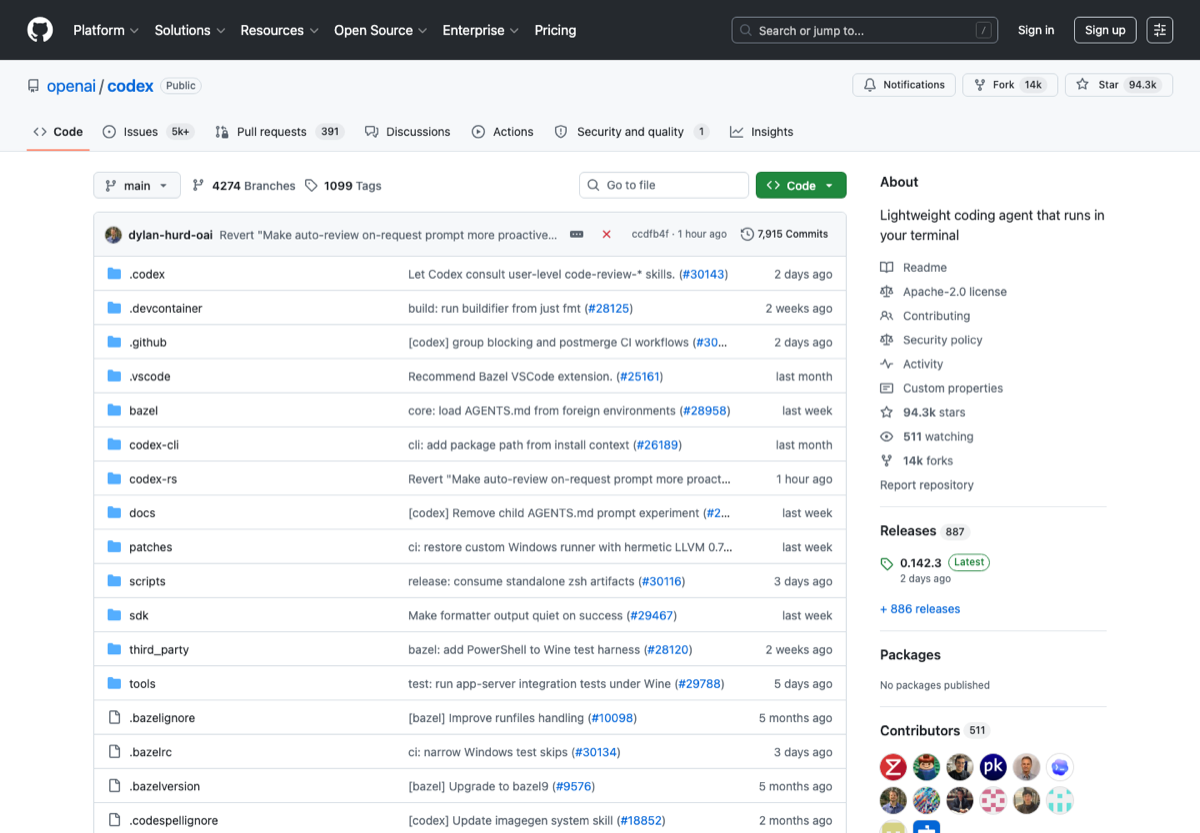
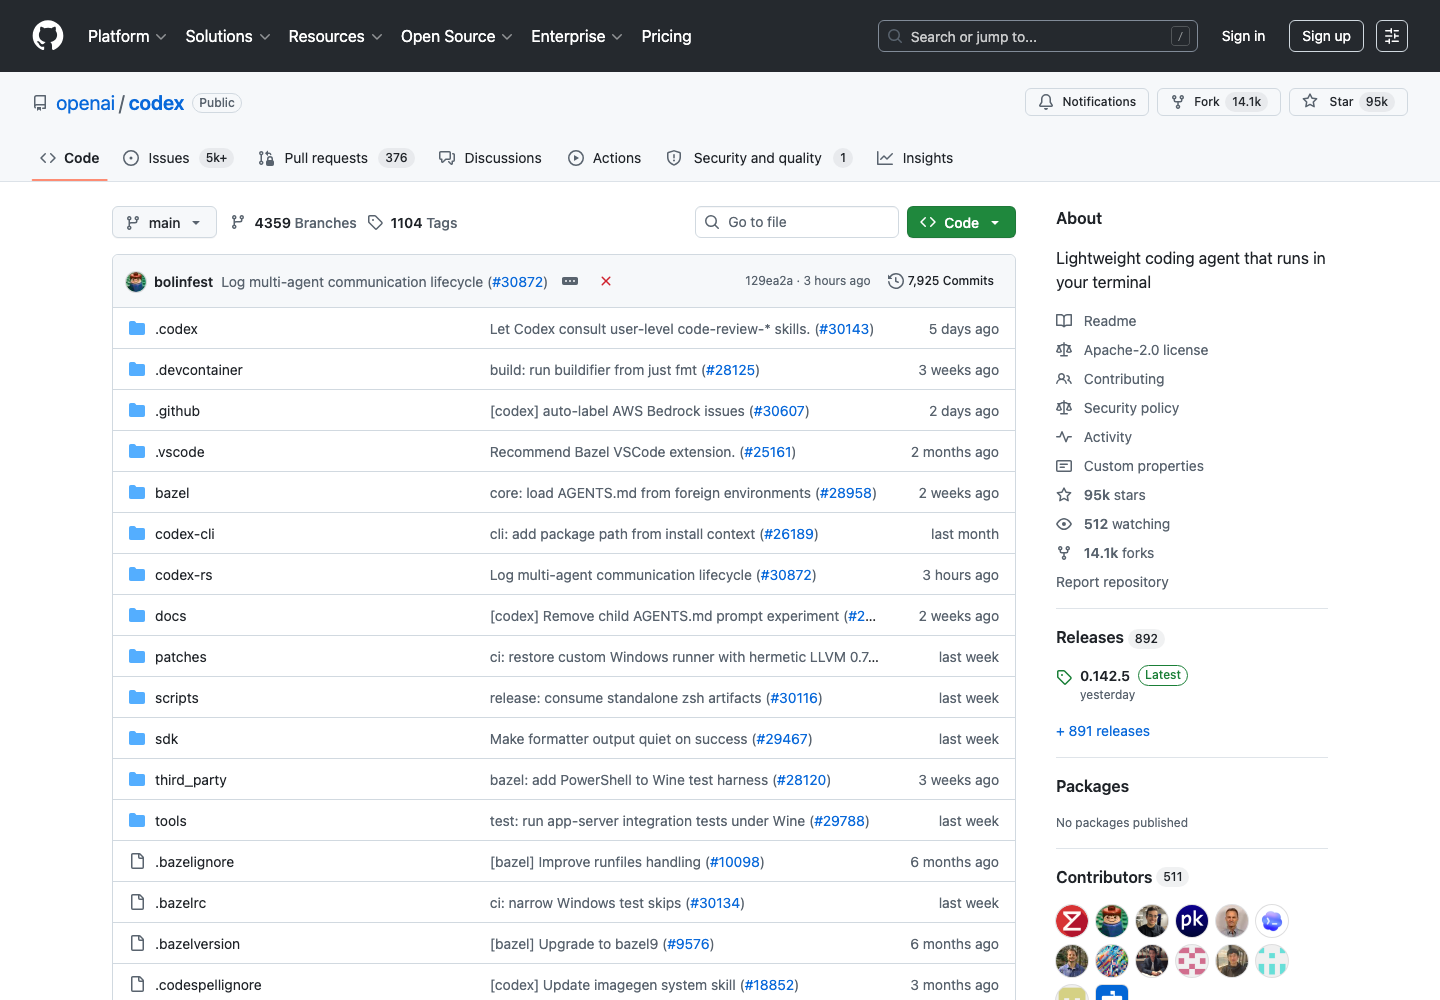
Polish README and curated resources

diff --git a/README.md b/README.md
@@ -1,55 +1,92 @@
-# 中文 AI 编程工具箱
+# AI 编程工具中文选型
 
-> Codex、Claude Code、Gemini CLI、Cursor、Cline、Aider 等 AI 编程工具的中文选型笔记。
+> 按工作流整理 Codex、Claude Code、Gemini CLI、Cursor、Cline、Aider、Continue 等 AI 编程工具，帮助中文用户快速比较工具定位、适用场景和风险点。
+
+<p align="left">
+  <a href="https://github.com/StaryMoon/cn-ai-coding-toolbox"><img alt="stars" src="https://img.shields.io/github/stars/StaryMoon/cn-ai-coding-toolbox?style=flat&label=stars"></a>
+  <img alt="category" src="https://img.shields.io/badge/AI%20%20%2F%20%20%E7%BC%96%E7%A8%8B-curated-blue">
+  <img alt="language" src="https://img.shields.io/badge/language-中文-brightgreen">
+</p>
 
 ![preview](assets/preview.png)
 
-## Overview
+<sub>图片来源：公开入口预览图，[https://github.com/openai/codex](https://github.com/openai/codex)，截取/整理日期：2026-07-02。</sub>
 
-按工作流整理 Codex、Claude Code、Gemini CLI、Cursor、Cline、Aider、Continue 等 AI 编程工具，帮助中文用户快速比较工具定位、适用场景和风险点。
+## 定位
 
-本仓库只保留与主题直接相关、入口稳定、说明清晰的资源。优先收录官方文档、主流开源仓库、长期可访问的产品页面和常用工具链。
+本仓库是一份面向中文用户的主题索引，重点整理常用、稳定、值得优先了解的工具入口，并补充适用场景、选型建议和风险边界。目标不是追求数量，而是降低第一次检索和筛选的成本。
 
-## Key Resources
+- **主题**：AI / 编程
+- **适合人群**：学生、研究生、开发者、开源维护者
+- **首批重点**：OpenAI Codex CLI / Claude Code / Gemini CLI / Cursor / Cline
+- **为什么值得整理**：AI coding 工具正在从补全走向 agent，中文资料常常只讲情绪不讲选型，这类页面很适合被搜索和收藏。
 
-OpenAI Codex CLI / Claude Code / Gemini CLI / Cursor
+## 使用方式
 
-## Resources
+1. 先看 [精选资源](#精选资源)，按自己的场景挑 2-3 个入口试用。
+2. 再看 [选型建议](#选型建议)，避免一上来把同类工具全装一遍。
+3. 如果用于课程、论文、开源项目或生产环境，务必看 [风险提醒](#风险提醒)。
 
-| Resource | Use case |
-| --- | --- |
-| [OpenAI Codex CLI](https://github.com/openai/codex) | 终端 coding agent，适合本地仓库修改、测试、PR 小修。 |
-| [Claude Code](https://docs.anthropic.com/en/docs/claude-code/overview) | Claude 生态 coding agent，适合长上下文和复杂任务拆解。 |
-| [Gemini CLI](https://github.com/google-gemini/gemini-cli) | Google Gemini 生态终端 agent，开源且热度高。 |
-| [Cursor](https://cursor.com/) | AI-first editor，适合需要完整 IDE 体验的用户。 |
-| [Cline](https://github.com/cline/cline) | VS Code 内开源 autonomous coding agent。 |
-| [Aider](https://github.com/Aider-AI/aider) | Git/diff 驱动的经典终端 AI pair programmer。 |
-| [Continue](https://github.com/continuedev/continue) | 开源 AI coding assistant 平台，适合团队自定义。 |
-| [Qwen Code](https://github.com/QwenLM/qwen-code) | Qwen 生态终端 coding agent，中文用户值得关注。 |
+## 收录口径
 
-## Recommended Path
+按实际编码位置分层：IDE、终端 agent、VS Code 插件、自托管补全。只收官方入口或活跃开源项目。
 
-1. 先选一种工作流：终端 agent、AI IDE、VS Code 插件。
-2. 小仓库试用：让工具读 README、修 bug、跑测试。
-3. 确认成本和权限后再交给它改大仓库。
+优先收录：
 
-## Notes
+- 官方文档、官网、活跃 GitHub 仓库；
+- 免费可试用或开源项目；
+- 中文用户高频搜索、收藏、复用的工具；
+- 入口稳定、说明清楚、维护状态可判断的资源。
+
+暂不收录：
+
+- 破解软件、灰色下载、账号代认证、返利推广；
+- 长期不可访问或入口频繁变化的镜像；
+- 只有营销话术、没有清晰文档的产品；
+- 与本主题关系很弱的泛泛工具。
+
+## 精选资源
+
+| 名称 | 适合场景 | 入口 |
+| --- | --- | --- |
+| OpenAI Codex CLI | 终端 coding agent，适合本地仓库修改、测试、PR 小修。 | [访问](https://github.com/openai/codex) |
+| Claude Code | Claude 生态 coding agent，适合长上下文和复杂任务拆解。 | [访问](https://docs.anthropic.com/en/docs/claude-code/overview) |
+| Gemini CLI | Google Gemini 生态终端 agent，开源且热度高。 | [访问](https://github.com/google-gemini/gemini-cli) |
+| Cursor | AI-first editor，适合需要完整 IDE 体验的用户。 | [访问](https://cursor.com/) |
+| Cline | VS Code 内开源 autonomous coding agent。 | [访问](https://github.com/cline/cline) |
+| Aider | Git/diff 驱动的经典终端 AI pair programmer。 | [访问](https://github.com/Aider-AI/aider) |
+| Continue | 开源 AI coding assistant 平台，适合团队自定义。 | [访问](https://github.com/continuedev/continue) |
+| Qwen Code | Qwen 生态终端 coding agent，中文用户值得关注。 | [访问](https://github.com/QwenLM/qwen-code) |
+| OpenHands | 开源软件开发 agent，适合观察端到端任务执行。 | [访问](https://github.com/All-Hands-AI/OpenHands) |
+| Tabby | 自托管代码补全和团队代码助手。 | [访问](https://github.com/TabbyML/tabby) |
+| Windsurf | AI IDE，适合对比 Cursor 类产品体验。 | [访问](https://windsurf.com/) |
+| Zed AI | 高速编辑器内置 AI 工作流。 | [访问](https://zed.dev/ai) |
+
+## 选型建议
+
+- 先选一种工作流：终端 agent、AI IDE、VS Code 插件。
+- 小仓库试用：让工具读 README、修 bug、跑测试。
+- 确认成本和权限后再交给它改大仓库。
+
+## 风险提醒
 
 - 避免向 agent 暴露生产密钥。
 - 评估工具时同时关注编辑器适配、模型生态、权限边界和维护状态。
 
-## Screenshot
+## 维护说明
 
-Source: [https://github.com/openai/codex](https://github.com/openai/codex)
+- 本仓库会优先更新失效链接、官方入口变更和明显过时的描述。
+- 新增资源请尽量给出官网、GitHub 仓库、文档页或可验证的公开说明。
+- 推荐新资源时，请说明具体场景和选择理由，避免只写泛泛评价。
 
-## Data
+## 数据文件
 
-Structured resource data is available in [`data/links.json`](data/links.json).
+结构化数据见 [`data/links.json`](data/links.json)，可用于脚本生成网页、表格或个人导航页。
 
 ## Contributing
 
-PRs are welcome for official links, documentation updates, screenshot refreshes, and concise use-case descriptions. Please avoid mirrors, cracked software, referral links, and unverified downloads.
+欢迎提交 PR 修正链接、补充官方文档、更新截图或改进中文说明。请保持描述短、准、可验证。
 
 ## License
 
-MIT. Third-party trademarks, screenshots, and website content belong to their respective owners.
+MIT。第三方商标、截图、网页内容和产品名称归各自权利方所有，本仓库只做索引和学习整理。